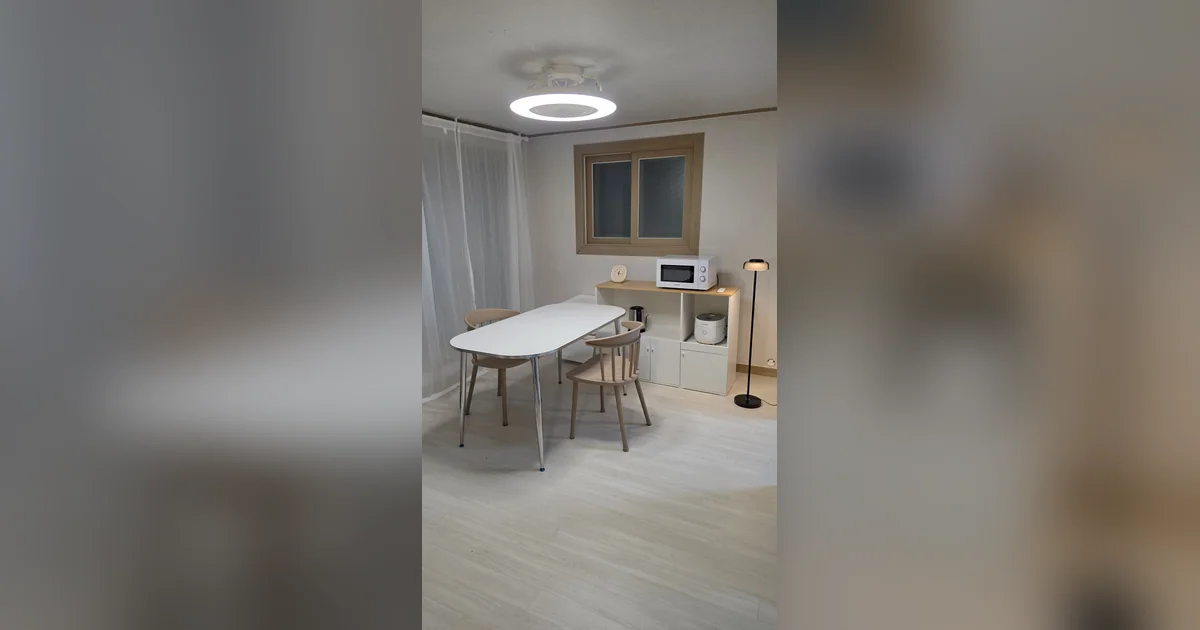
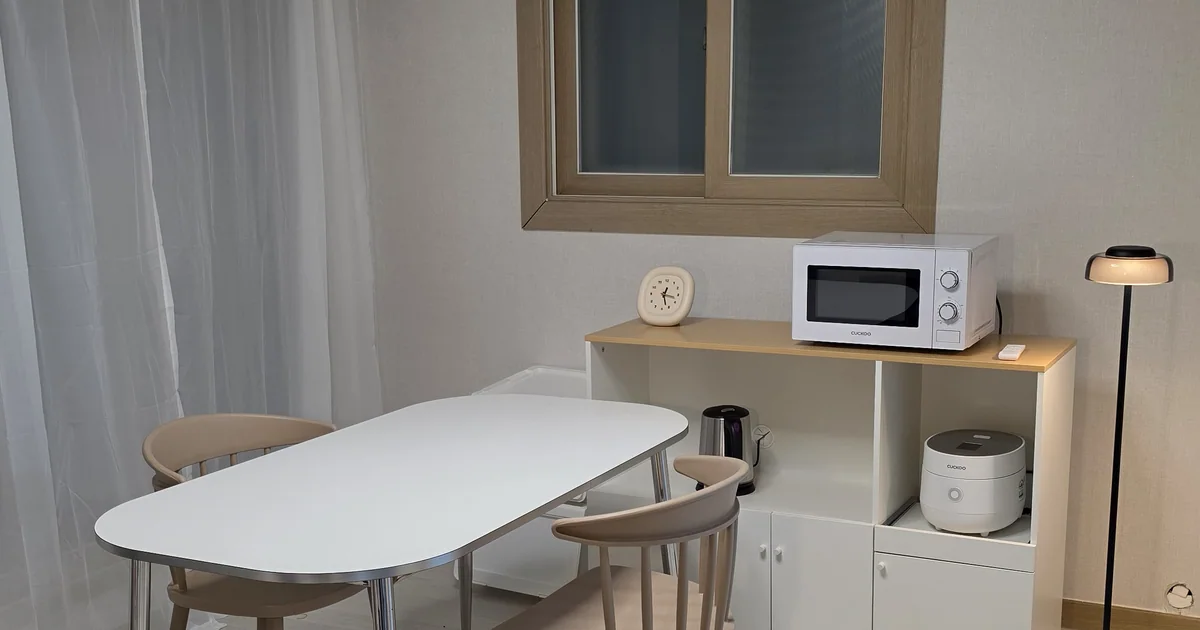
Crop the cover properly instead of letterboxing it
Fitting the portrait shot inside 1200x630 left blurred bars down both
sides and looked it. This is a real crop of the same photograph — table,
chairs, the sideboard and the standing lamp — which loses the ceiling
fixture at the top and is a better image for it.

Claude-Session: https://claude.ai/code/session_01KjcKsxJK2cUnviuE5G9suT

diff --git a/src/content/blog/korea-university-housing/index.md b/src/content/blog/korea-university-housing/index.md
@@ -2,7 +2,7 @@
 title: "A Share House Three Minutes from Korea University"
 description: "Single rooms in Jongam-dong by Korea University Station: aircon in every room, a washer-dryer, a shared kitchen and a rooftop. Deposits sized for students."
 pubDate: 2026-08-26T17:53:00+09:00
-updatedDate: 2026-08-27T10:28:00+09:00
+updatedDate: 2026-08-27T10:32:00+09:00
 service: moving
 category: home
 tags: ["coliving", "share-house", "housing", "students", "korea-university"]
